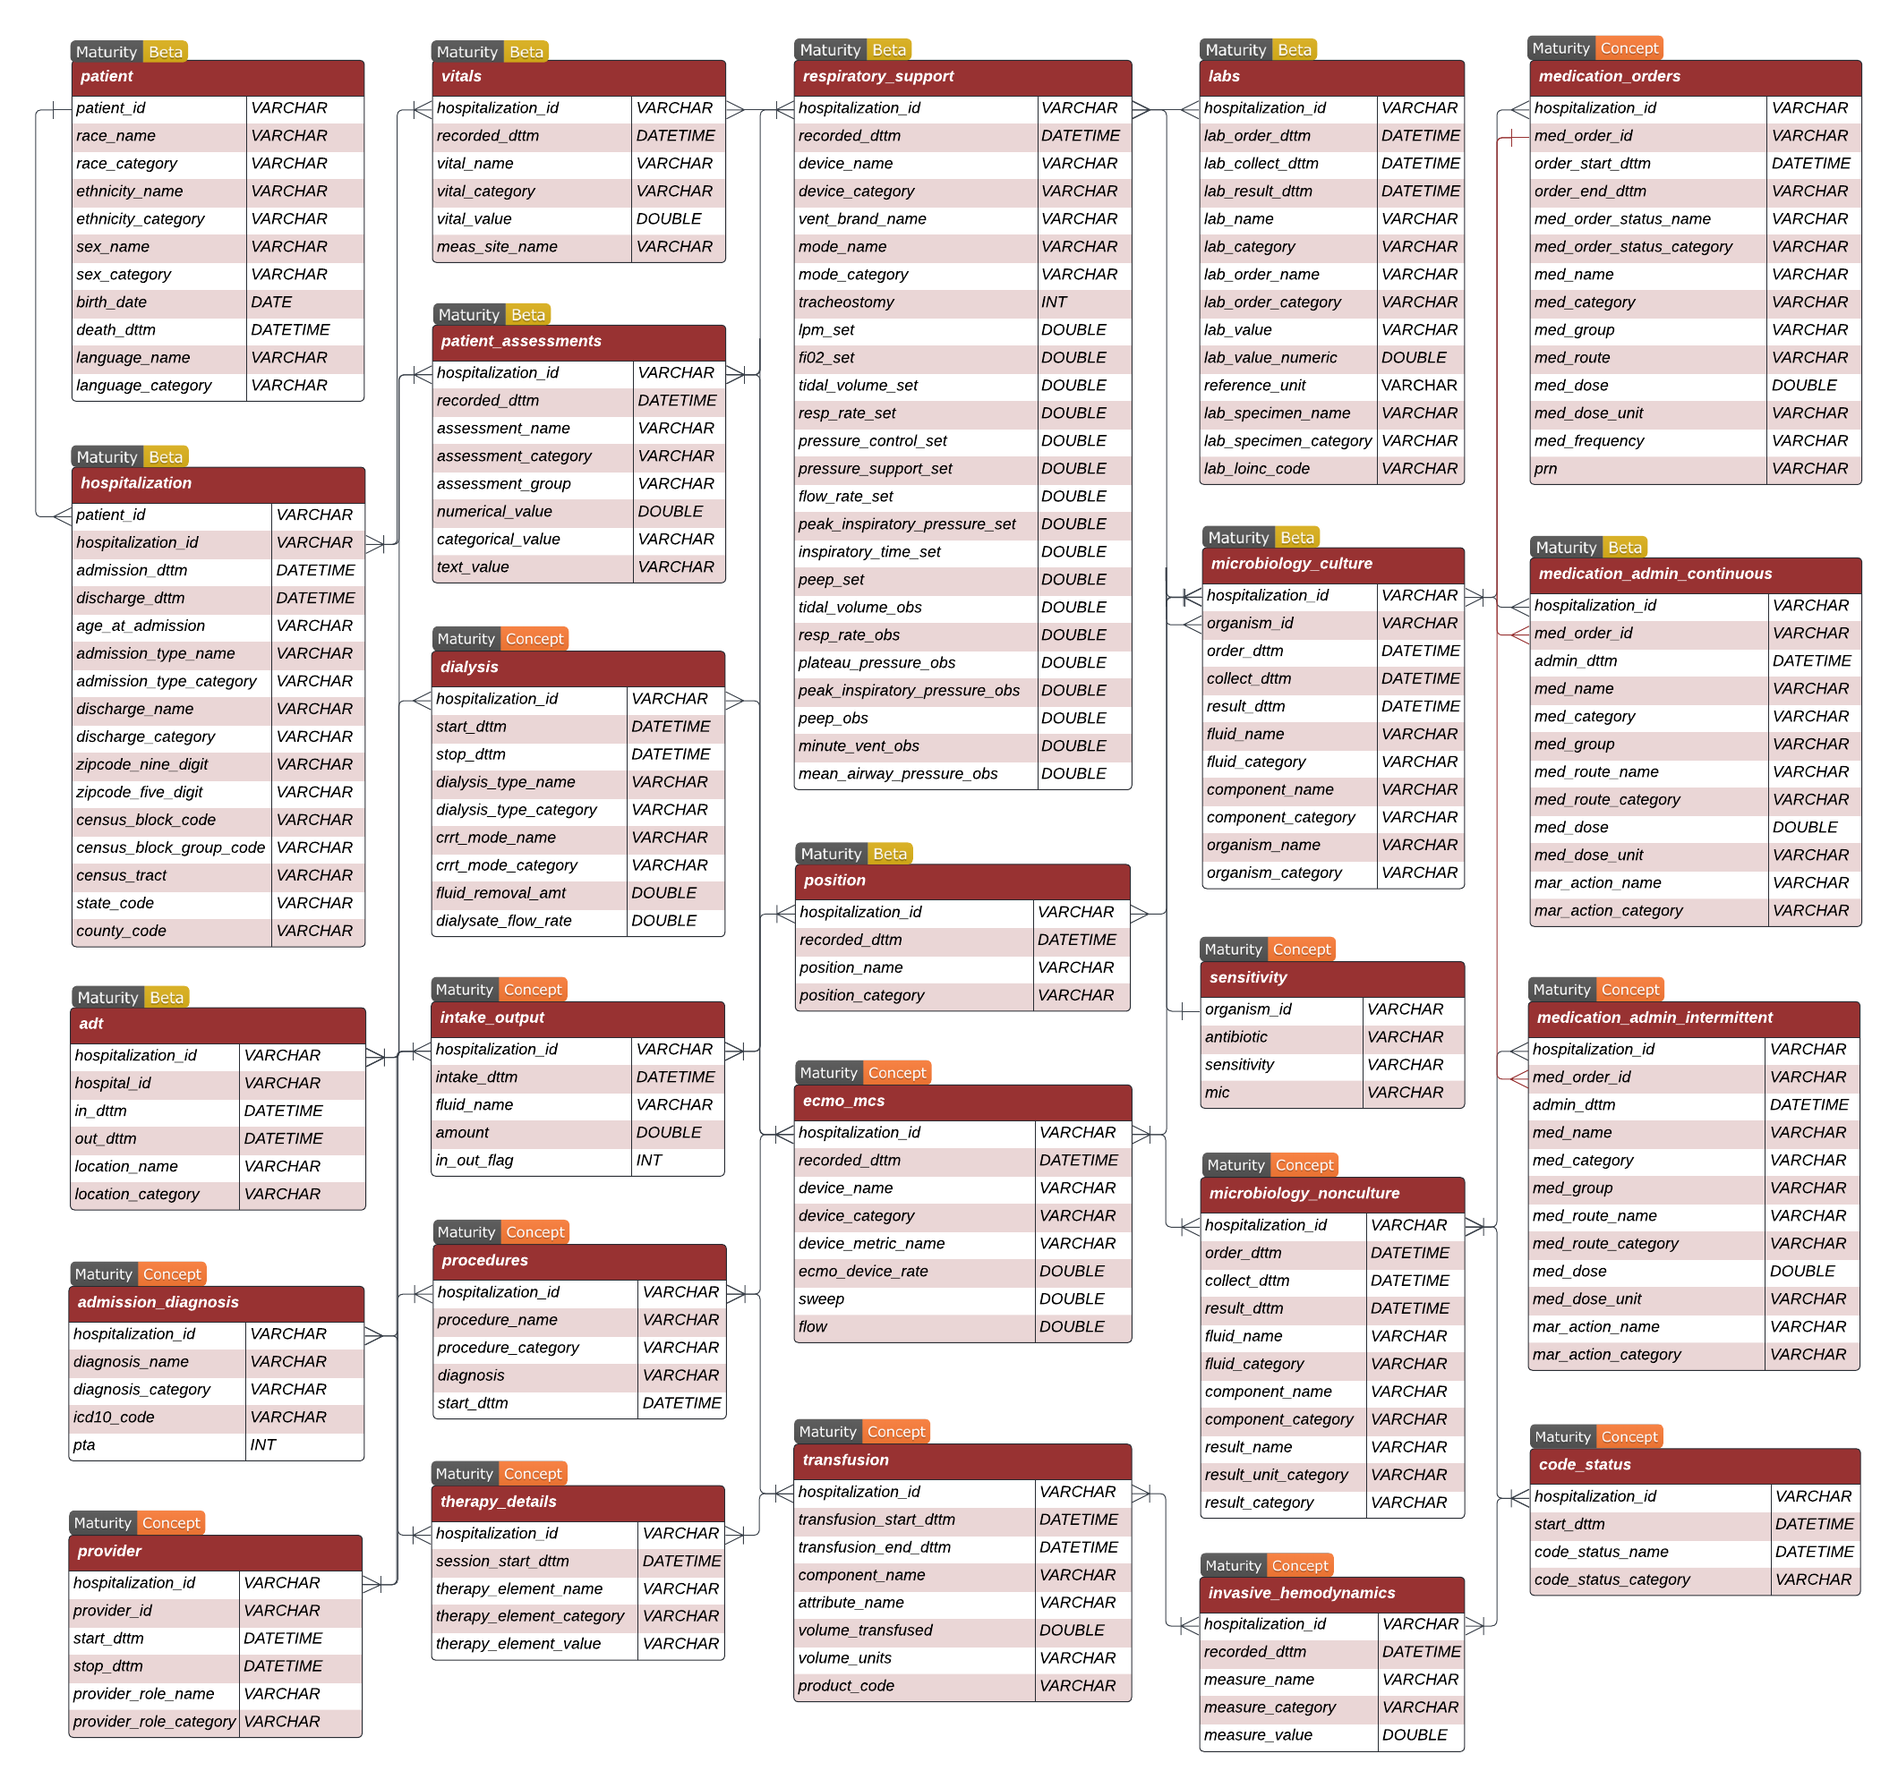
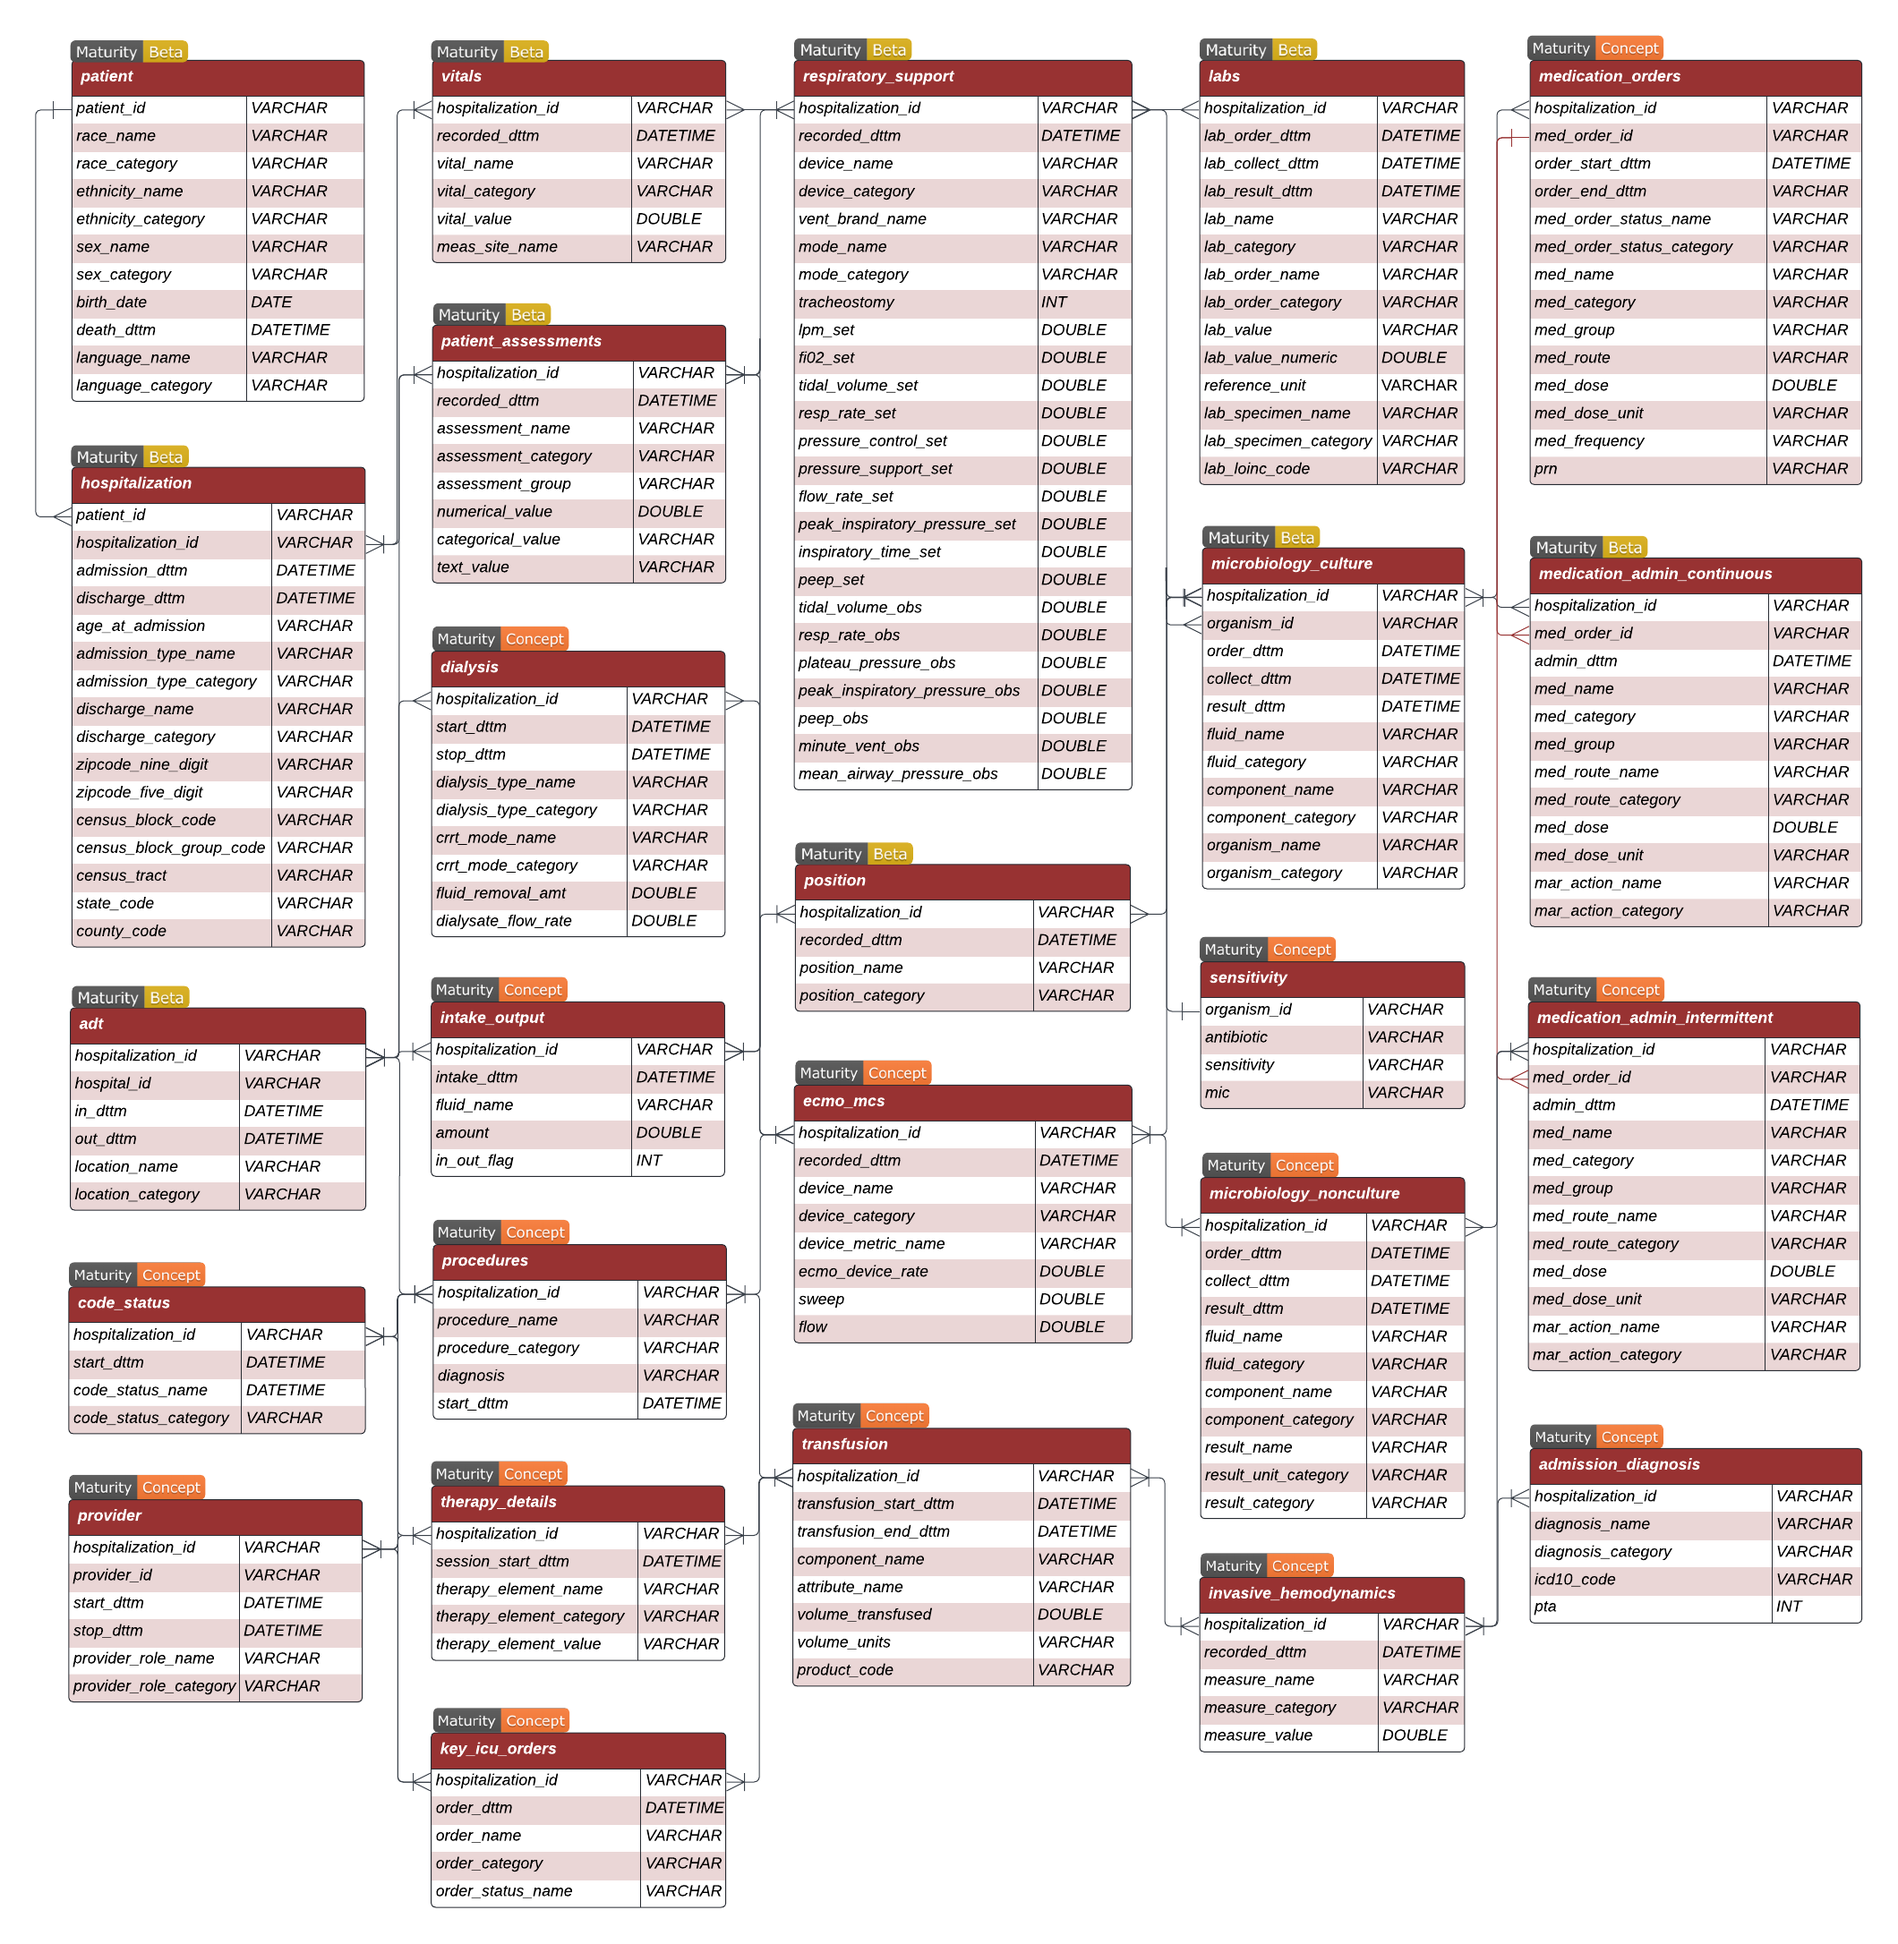
added key icu orders. updated med continuous description. minor updates to data dict

diff --git a/docs/data-dictionary.html b/docs/data-dictionary.html
@@ -179,6 +179,7 @@ ul.task-list li input[type="checkbox"] {
   <li><a href="#transfusion" id="toc-transfusion" class="nav-link" data-scroll-target="#transfusion">Transfusion</a></li>
   <li><a href="#code-status" id="toc-code-status" class="nav-link" data-scroll-target="#code-status">Code Status</a></li>
   <li><a href="#invasive-hemodynamics" id="toc-invasive-hemodynamics" class="nav-link" data-scroll-target="#invasive-hemodynamics">Invasive Hemodynamics</a></li>
+  <li><a href="#key-icu-orders" id="toc-key-icu-orders" class="nav-link" data-scroll-target="#key-icu-orders">Key ICU orders</a></li>
   </ul></li>
   <li><a href="#future-proposed-tables" id="toc-future-proposed-tables" class="nav-link" data-scroll-target="#future-proposed-tables">Future proposed tables</a></li>
   </ul>
@@ -1974,7 +1975,7 @@ ul.task-list li input[type="checkbox"] {
 <tr class="even">
 <td>recorded_dttm</td>
 <td>DATETIME</td>
-<td>Date and time when the device started</td>
+<td>Date and time when the device settings and/or measurement was recorded.</td>
 <td>Datetime format should be <code>%Y-%m-%d %H:%M:%S</code></td>
 </tr>
 <tr class="odd">
@@ -2395,7 +2396,7 @@ ul.task-list li input[type="checkbox"] {
 <section id="medication-admin-continuous" class="level2">
 <h2 class="anchored" data-anchor-id="medication-admin-continuous">Medication Admin Continuous</h2>
 <p><a href="#maturity-levels-for-clif-tables"><img src="https://img.shields.io/badge/Maturity-Beta-yellow.png" class="img-fluid"></a></p>
-<p>The medication admin continuous table is a long-form (one medication administration per row) longitudinal table. Note that it only reflects dose changes of the continuous medication and does not have a specific “end_time” variable to indicate the medication being stopped.</p>
+<p>The medication admin continuous table is a long-form (one medication administration record per) longitudinal table designed for continuous infusions of common ICU medications such as vasopressors and sedation (Boluses of these drugs should be recorded in <code>med_admin_intermittent</code>). Note that it only reflects dose changes of the continuous medication and does not have a specific “end_time” variable to indicate the medication being stopped. The end of a continuous infusion should be recorded as a new row with med_dose = 0 and an appropriate mar_action_name (e.g.&nbsp;“stopped” or “paused”).</p>
 <table class="table">
 <thead>
 <tr class="header">
@@ -2463,7 +2464,7 @@ ul.task-list li input[type="checkbox"] {
 <tr class="even">
 <td>med_dose_unit</td>
 <td>VARCHAR</td>
-<td>Unit of dose</td>
+<td>Unit of dose. It must be a rate, e.g.&nbsp;mcg/min. Boluses should be mapped to <code>med_admin_intermittent</code></td>
 <td></td>
 </tr>
 <tr class="odd">
@@ -2544,30 +2545,6 @@ ul.task-list li input[type="checkbox"] {
 <td>NA</td>
 <td>0.0000</td>
 <td>mcg/kg/min</td>
-<td>Stopped</td>
-</tr>
-<tr class="even">
-<td>370921</td>
-<td>2123-02-12 00:00:00</td>
-<td>OXYTOCIN 30 UNIT/500 ML IN 0.9 % SODIUM CHLORIDE</td>
-<td>oxytocin</td>
-<td>endocrine</td>
-<td>Intravenous</td>
-<td>NA</td>
-<td>4.0000</td>
-<td>milli-units/min</td>
-<td>Restarted</td>
-</tr>
-<tr class="odd">
-<td>370921</td>
-<td>2123-02-12 00:10:00</td>
-<td>OXYTOCIN 30 UNIT/500 ML IN 0.9 % SODIUM CHLORIDE</td>
-<td>oxytocin</td>
-<td>endocrine</td>
-<td>Intravenous</td>
-<td>NA</td>
-<td>0.0000</td>
-<td>milli-units/min</td>
 <td>Stopped</td>
 </tr>
 <tr class="even">
@@ -2900,7 +2877,7 @@ ul.task-list li input[type="checkbox"] {
 </tr>
 <tr class="even">
 <td>recorded_dttm</td>
-<td>Date and time when ECMO/MCS support started.</td>
+<td>Date and time when the device settings and/or measurement was recorded.</td>
 </tr>
 <tr class="odd">
 <td>device_name</td>
@@ -4070,6 +4047,110 @@ ul.task-list li input[type="checkbox"] {
 <td>Wedge</td>
 <td>PCWP</td>
 <td>18.75</td>
+</tr>
+</tbody>
+</table>
+</div>
+</section>
+<section id="key-icu-orders" class="level2">
+<h2 class="anchored" data-anchor-id="key-icu-orders">Key ICU orders</h2>
+<p><a href="#maturity-levels-for-clif-tables"><img src="https://img.shields.io/badge/Maturity-Concept-orange.png" class="img-fluid"></a></p>
+<p>The <code>key_icu_orders</code> table captures key orders related to physical therapy (PT) and occupational therapy (OT) during ICU stays. It includes details about the hospitalization, the timing of the order, the specific name of the order, its category, and the status of the order (completed or sent).</p>
+<table class="table">
+<colgroup>
+<col style="width: 11%">
+<col style="width: 11%">
+<col style="width: 50%">
+<col style="width: 26%">
+</colgroup>
+<thead>
+<tr class="header">
+<th>Column Name</th>
+<th>Data Type</th>
+<th>Description</th>
+<th>Permissible Values</th>
+</tr>
+</thead>
+<tbody>
+<tr class="odd">
+<td>hospitalization_id</td>
+<td>VARCHAR</td>
+<td>Unique identifier linking the order to a specific hospitalization.</td>
+<td>N/A</td>
+</tr>
+<tr class="even">
+<td>order_dttm</td>
+<td>DATETIME</td>
+<td>Date and time when the order was placed.</td>
+<td>Datetime format should be <code>%Y-%m-%d %H:%M:%S</code></td>
+</tr>
+<tr class="odd">
+<td>order_name</td>
+<td>VARCHAR</td>
+<td>Name of the specific order (e.g., “PT Evaluation”, “OT Treatment”).</td>
+<td>N/A</td>
+</tr>
+<tr class="even">
+<td>order_category</td>
+<td>VARCHAR</td>
+<td>Category of the order. Permissible values are:</td>
+<td>Under-development. Some examples include: <code>PT_evaluation</code>, <code>PT_treat</code>, <code>OT_evaluation</code>, <code>OT_treat</code></td>
+</tr>
+<tr class="odd">
+<td>order_status_name</td>
+<td>VARCHAR</td>
+<td>Status of the order. Permissible values are:</td>
+<td><code>sent</code>, <code>completed</code></td>
+</tr>
+</tbody>
+</table>
+<p><strong>Example</strong>:</p>
+<div class="scrollable-table">
+<table class="table-striped table-hover table">
+<colgroup>
+<col style="width: 19%">
+<col style="width: 19%">
+<col style="width: 27%">
+<col style="width: 16%">
+<col style="width: 18%">
+</colgroup>
+<thead>
+<tr class="header">
+<th>hospitalization_id</th>
+<th>order_dttm</th>
+<th>order_name</th>
+<th>order_category</th>
+<th>order_status_name</th>
+</tr>
+</thead>
+<tbody>
+<tr class="odd">
+<td>12345</td>
+<td>2024-12-15 10:00:00</td>
+<td>PT Initial Evaluation</td>
+<td>PT_evaluation</td>
+<td>completed</td>
+</tr>
+<tr class="even">
+<td>67890</td>
+<td>2024-12-16 14:30:00</td>
+<td>OT Follow-up Treatment</td>
+<td>OT_treat</td>
+<td>sent</td>
+</tr>
+<tr class="odd">
+<td>54321</td>
+<td>2024-12-16 08:00:00</td>
+<td>PT Mobility Session</td>
+<td>PT_treat</td>
+<td>completed</td>
+</tr>
+<tr class="even">
+<td>98765</td>
+<td>2024-12-15 11:15:00</td>
+<td>OT Cognitive Assessment</td>
+<td>OT_evaluation</td>
+<td>sent</td>
 </tr>
 </tbody>
 </table>
